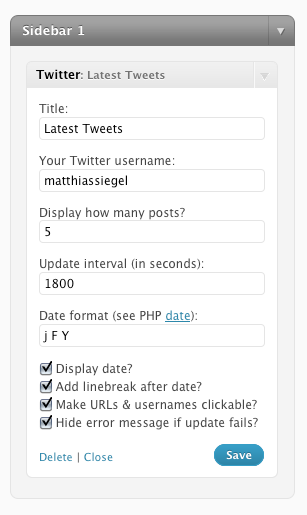
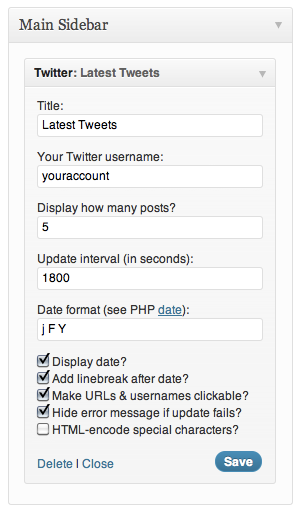
1.03 release
git-svn-id: https://plugins.svn.wordpress.org/simple-twitter-widget/trunk@446938 b8457f37-d9ea-0310-8a92-e5e31aec5664

diff --git a/twitter.php b/twitter.php
@@ -2,13 +2,13 @@
 /*
 Plugin Name: Simple Twitter Widget
 Plugin URI: http://chipsandtv.com/
-Description: A simple but powerful widget to display updates from a Twitter feed. Configurable, reliable and with advanced caching.
-Version: 1.02
+Description: A simple but powerful widget to display updates from a Twitter feed. Configurable and reliable.
+Version: 1.03
 Author: Matthias Siegel
 Author URI: http://chipsandtv.com/
 
 
-Copyright 2010  Matthias Siegel  (email : chipsandtv@gmail.com)
+Copyright 2011  Matthias Siegel  (email : chipsandtv@gmail.com)
 
 This program is free software; you can redistribute it and/or modify
 it under the terms of the GNU General Public License as published by
@@ -28,7 +28,9 @@ Foundation, Inc., 51 Franklin St, Fifth Floor, Boston, MA  02110-1301  USA
 
 
 if (!class_exists('Twitter_Widget')) :
+
 	class Twitter_Widget extends WP_Widget {
+
 
 		function Twitter_Widget() {
 									
@@ -41,6 +43,7 @@ if (!class_exists('Twitter_Widget')) :
 		
 		
 		function widget($args, $instance) {
+			
 			extract($args);
 			
 			global $interval;
@@ -55,13 +58,11 @@ if (!class_exists('Twitter_Widget')) :
 			$datebreak = $instance['datebreak'];
 			$clickable = $instance['clickable'];
 			$hideerrors = $instance['hideerrors'];
+			$encodespecial = $instance['encodespecial'];
 
 			// Before widget (defined by themes)
 			echo $before_widget;
 
-
-			// Widget action happens from here
-			
 			// Set internal Wordpress feed cache interval, by default it's 12 hours or so
 			add_filter('wp_feed_cache_transient_lifetime', array(&$this, 'setInterval'));
 			include_once(ABSPATH . WPINC . '/feed.php');
@@ -70,17 +71,15 @@ if (!class_exists('Twitter_Widget')) :
 			$upload = wp_upload_dir();
 			$cachefile = $upload['basedir'] . '/_twitter_' . $username . '.txt';
 
-
 			// Title of widget (before and after defined by themes)
 			if (!empty($title)) echo $before_title . $title . $after_title;
-
 
 			// If cachefile doesn't exist or was updated more than $interval ago, create or update it, otherwise load from file
 			if (!file_exists($cachefile) || (file_exists($cachefile) && (filemtime($cachefile) + $interval) < time())) :
 
-				$feed = fetch_feed('http://twitter.com/statuses/user_timeline.rss?screen_name=' . $username);
+				$feed = fetch_feed('http://api.twitter.com/1/statuses/user_timeline.rss?screen_name=' . $username);
 				
-				// This check prevents fatal errors - which can't be turned off in PHP - when feed updates fail
+				// This check prevents fatal errors — which can't be turned off in PHP — when feed updates fail
 				if (method_exists($feed, 'get_items')) :
 
 					$tweets = $feed->get_items(0, $posts);
@@ -104,21 +103,26 @@ if (!class_exists('Twitter_Widget')) :
 						else :
 							$time = date(($date), $time);
 						endif;
+						
+						// HTML encode special characters like ampersands
+						if ($encodespecial) :
+							$text = htmlspecialchars($text);
+						endif;
 
 						// Make links and Twitter names clickable
 						if ($clickable) :
 							// Match URLs
-				    		$text = preg_replace('`\b(([\w-]+://?|www[.])[^\s()<>]+(?:\([\w\d]+\)|([^[:punct:]\s]|/)))`', '<a href="$0">$0</a>', $text);
+				    	$text = preg_replace('`\b(([\w-]+://?|www[.])[^\s()<>]+(?:\([\w\d]+\)|([^[:punct:]\s]|/)))`', '<a href="$0">$0</a>', $text);
 
-				    		// Match @name
-				    		$text = preg_replace('/(@)([a-zA-Z0-9\_]+)/', '@<a href="http://twitter.com/$2">$2</a>', $text);
+				    	// Match @name
+				    	$text = preg_replace('/(@)([a-zA-Z0-9\_]+)/', '@<a href="http://twitter.com/$2">$2</a>', $text);
 						endif;
 
-			    		// Display date/time
+			    	// Display date/time
 						if ($datedisplay) $result .= '
 								<span class="twitter-date"><a href="'. $t->get_permalink() .'">' . $time . '</a></span>' . ($datebreak ? '<br />' : '');
 
-			    		// Display message without username prefix
+			    	// Display message without username prefix
 						$prefixlen = strlen($username . ": ");
 						$result .= '
 								<span class="twitter-text">' . substr($text, $prefixlen, strlen($text) - $prefixlen) . '</span>';
@@ -166,7 +170,6 @@ if (!class_exists('Twitter_Widget')) :
 			endif;
 
 
-
 			// After widget (defined by themes)
 			echo $after_widget;
 		}
@@ -174,6 +177,7 @@ if (!class_exists('Twitter_Widget')) :
 		
 		// Callback helper for the cache interval filter
 		function setInterval() {
+			
 			global $interval;
 			
 			return $interval;
@@ -181,6 +185,7 @@ if (!class_exists('Twitter_Widget')) :
 
 		
 		function update($new_instance, $old_instance) {
+			
 			$instance = $old_instance;
 
 			$instance['title'] = $new_instance['title'];
@@ -192,6 +197,7 @@ if (!class_exists('Twitter_Widget')) :
 			$instance['datebreak'] = $new_instance['datebreak'];
 			$instance['clickable'] = $new_instance['clickable'];
 			$instance['hideerrors'] = $new_instance['hideerrors'];
+			$instance['encodespecial'] = $new_instance['encodespecial'];
 			
 			// Delete the cache file when options were updated so the content gets refreshed on next page load
 			$upload = wp_upload_dir();
@@ -205,53 +211,58 @@ if (!class_exists('Twitter_Widget')) :
 		function form($instance) {
 
 			// Set up some default widget settings
-			$defaults = array('title' => 'Latest Tweets', 'username' => '', 'posts' => 5, 'interval' => 1800, 'date' => 'j F Y', 'datedisplay' => true, 'datebreak' => true, 'clickable' => true, 'hideerrors' => true);
+			$defaults = array('title' => 'Latest Tweets', 'username' => '', 'posts' => 5, 'interval' => 1800, 'date' => 'j F Y', 'datedisplay' => true, 'datebreak' => true, 'clickable' => true, 'hideerrors' => true, 'encodespecial' => false);
 			$instance = wp_parse_args((array) $instance, $defaults);
 ?>
 				
 			<p>
 				<label for="<?php echo $this->get_field_id('title'); ?>">Title:</label>
-				<input class="widefat" type="text" id="<?php echo $this->get_field_id('title'); ?>" name="<?php echo $this->get_field_name('title'); ?>" value="<?php echo $instance['title']; ?>" />
+				<input class="widefat" type="text" id="<?php echo $this->get_field_id('title'); ?>" name="<?php echo $this->get_field_name('title'); ?>" value="<?php echo $instance['title']; ?>">
 			</p>
 
 			<p>
 				<label for="<?php echo $this->get_field_id('username'); ?>">Your Twitter username:</label>
-				<input class="widefat" type="text" id="<?php echo $this->get_field_id('username'); ?>" name="<?php echo $this->get_field_name('username'); ?>" value="<?php echo $instance['username']; ?>" />
+				<input class="widefat" type="text" id="<?php echo $this->get_field_id('username'); ?>" name="<?php echo $this->get_field_name('username'); ?>" value="<?php echo $instance['username']; ?>">
 			</p>
 
 			<p>
 				<label for="<?php echo $this->get_field_id('posts'); ?>">Display how many posts?</label>
-				<input class="widefat" type="text" id="<?php echo $this->get_field_id('posts'); ?>" name="<?php echo $this->get_field_name('posts'); ?>" value="<?php echo $instance['posts']; ?>" />
+				<input class="widefat" type="text" id="<?php echo $this->get_field_id('posts'); ?>" name="<?php echo $this->get_field_name('posts'); ?>" value="<?php echo $instance['posts']; ?>">
 			</p>
 
 			<p>
 				<label for="<?php echo $this->get_field_id('interval'); ?>">Update interval (in seconds):</label>
-				<input class="widefat" type="text" id="<?php echo $this->get_field_id('interval'); ?>" name="<?php echo $this->get_field_name('interval'); ?>" value="<?php echo $instance['interval']; ?>" />
+				<input class="widefat" type="text" id="<?php echo $this->get_field_id('interval'); ?>" name="<?php echo $this->get_field_name('interval'); ?>" value="<?php echo $instance['interval']; ?>">
 			</p>
 
 			<p>
 				<label for="<?php echo $this->get_field_id('date'); ?>">Date format (see PHP <a href="http://php.net/manual/en/function.date.php">date</a>):</label>
-				<input class="widefat" type="text" id="<?php echo $this->get_field_id('date'); ?>" name="<?php echo $this->get_field_name('date'); ?>" value="<?php echo $instance['date']; ?>" />
+				<input class="widefat" type="text" id="<?php echo $this->get_field_id('date'); ?>" name="<?php echo $this->get_field_name('date'); ?>" value="<?php echo $instance['date']; ?>">
 			</p>
 								
 			<p>
-				<input class="checkbox" type="checkbox" <?php if ($instance['datedisplay']) echo 'checked="checked" '; ?>id="<?php echo $this->get_field_id('datedisplay'); ?>" name="<?php echo $this->get_field_name('datedisplay'); ?>" />
+				<input class="checkbox" type="checkbox" <?php if ($instance['datedisplay']) echo 'checked="checked" '; ?>id="<?php echo $this->get_field_id('datedisplay'); ?>" name="<?php echo $this->get_field_name('datedisplay'); ?>">
 				<label for="<?php echo $this->get_field_id('datedisplay'); ?>">Display date?</label>
 				
-				<br />
+				<br>
 				
-				<input class="checkbox" type="checkbox" <?php if ($instance['datebreak']) echo 'checked="checked" '; ?>id="<?php echo $this->get_field_id('datebreak'); ?>" name="<?php echo $this->get_field_name('datebreak'); ?>" />
+				<input class="checkbox" type="checkbox" <?php if ($instance['datebreak']) echo 'checked="checked" '; ?>id="<?php echo $this->get_field_id('datebreak'); ?>" name="<?php echo $this->get_field_name('datebreak'); ?>">
 				<label for="<?php echo $this->get_field_id('datebreak'); ?>">Add linebreak after date?</label>
 				
-				<br />
+				<br>
 
-				<input class="checkbox" type="checkbox" <?php if ($instance['clickable']) echo 'checked="checked" '; ?>id="<?php echo $this->get_field_id('clickable'); ?>" name="<?php echo $this->get_field_name('clickable'); ?>" />
+				<input class="checkbox" type="checkbox" <?php if ($instance['clickable']) echo 'checked="checked" '; ?>id="<?php echo $this->get_field_id('clickable'); ?>" name="<?php echo $this->get_field_name('clickable'); ?>">
 				<label for="<?php echo $this->get_field_id('clickable'); ?>">Make URLs &amp; usernames clickable?</label>
 				
-				<br />
+				<br>
 
-				<input class="checkbox" type="checkbox" <?php if ($instance['hideerrors']) echo 'checked="checked" '; ?>id="<?php echo $this->get_field_id('hideerrors'); ?>" name="<?php echo $this->get_field_name('hideerrors'); ?>" />
+				<input class="checkbox" type="checkbox" <?php if ($instance['hideerrors']) echo 'checked="checked" '; ?>id="<?php echo $this->get_field_id('hideerrors'); ?>" name="<?php echo $this->get_field_name('hideerrors'); ?>">
 				<label for="<?php echo $this->get_field_id('hideerrors'); ?>">Hide error message if update fails?</label>
+
+				<br>
+
+				<input class="checkbox" type="checkbox" <?php if ($instance['encodespecial']) echo 'checked="checked" '; ?>id="<?php echo $this->get_field_id('encodespecial'); ?>" name="<?php echo $this->get_field_name('encodespecial'); ?>">
+				<label for="<?php echo $this->get_field_id('encodespecial'); ?>">HTML-encode special characters?</label>
 			</p>
 			
 <?php
@@ -267,6 +278,7 @@ endif;
 if (class_exists('Twitter_Widget')) :
 
 	function loadTwitterWidget() {
+		
 		register_widget('Twitter_Widget');
 	}
 

diff --git a/README.md b/README.md
@@ -1,43 +1,41 @@
-=== Simple Twitter Widget ===
-Contributors: chipsandtv
-Donate link: http://chipsandtv.com/
-Tags: twitter, widget
-Requires at least: 2.8
-Tested up to: 3.2.1
-Stable tag: 1.03
+Simple Twitter Widget
+=====================
 
 A simple but powerful widget to display updates from a Twitter feed. Configurable and reliable.
 
-== Description ==
+Description
+-----------
 
 This widget lets you display your latest tweets on your blog. Various configuration options are available.
 
 Features:
 
-* No need to enter your Twitter password
-* No Javascript
-* Simple but reliable caching, so your website won't slow down
-* Various options such as clickable URLs and usernames, date format etc.
-* Supports multiple instances at the same time
-* Fully compatible with widget-ready themes
+*   No need to enter your Twitter password
+*   No Javascript
+*   Simple but reliable caching, so your website won't slow down
+*   Various options such as clickable URLs and usernames, date format etc.
+*   Supports multiple instances at the same time
+*   Fully compatible with widget-ready themes
 
 
-== Installation ==
+Installation
+------------
 
-**Option 1 - Automatic install**
+### Option 1 - Automatic install
 
 Use the plugin installer built into WordPress to search. WordPress will then download and install it for you.
 
-**Option 2 - Manual install**
+### Option 2 - Manual install
 
 1. Make sure the files are within a folder.
 2. Copy the whole folder into the wp-content/plugins/ folder.
 3. Log into WordPress and activate the plugin. You can now select the widget under Appearance / Widgets.
 
 
-== Frequently Asked Questions ==
+Frequently Asked Questions
+--------------------------
 
-= What could be the reason if the widget doesn't work? =
+### What could be the reason if the widget doesn't work?
 
 The code has been extensively tested and most issues can be resolved by trying the following:
 
@@ -48,22 +46,19 @@ The code has been extensively tested and most issues can be resolved by trying t
 
 Also keep in mind it will only work with public Twitter feeds, not private ones.
 
-== Screenshots ==
+Changelog
+---------
 
-1. Widget options
+### 1.03
+*   Added new option to HTML-encode special characters like ampersands (requested)
 
-== Changelog ==
+### 1.02
+*   Bugfix for multiple feeds
 
-= 1.03 =
-* Added new option to HTML-encode special characters like ampersands (requested)
+### 1.01
+*   URL detection should be more reliable now
+*   Fix for potential problem with feed update interval
+*   Tested with WordPress 3.0
 
-= 1.02 =
-* Bugfix for multiple feeds
-
-= 1.01 =
-* URL detection should be more reliable now
-* Fix for potential problem with feed update interval
-* Tested with WordPress 3.0
-
-= 1.0 =
-* Initial release.
+### 1.0
+*   Initial release.
